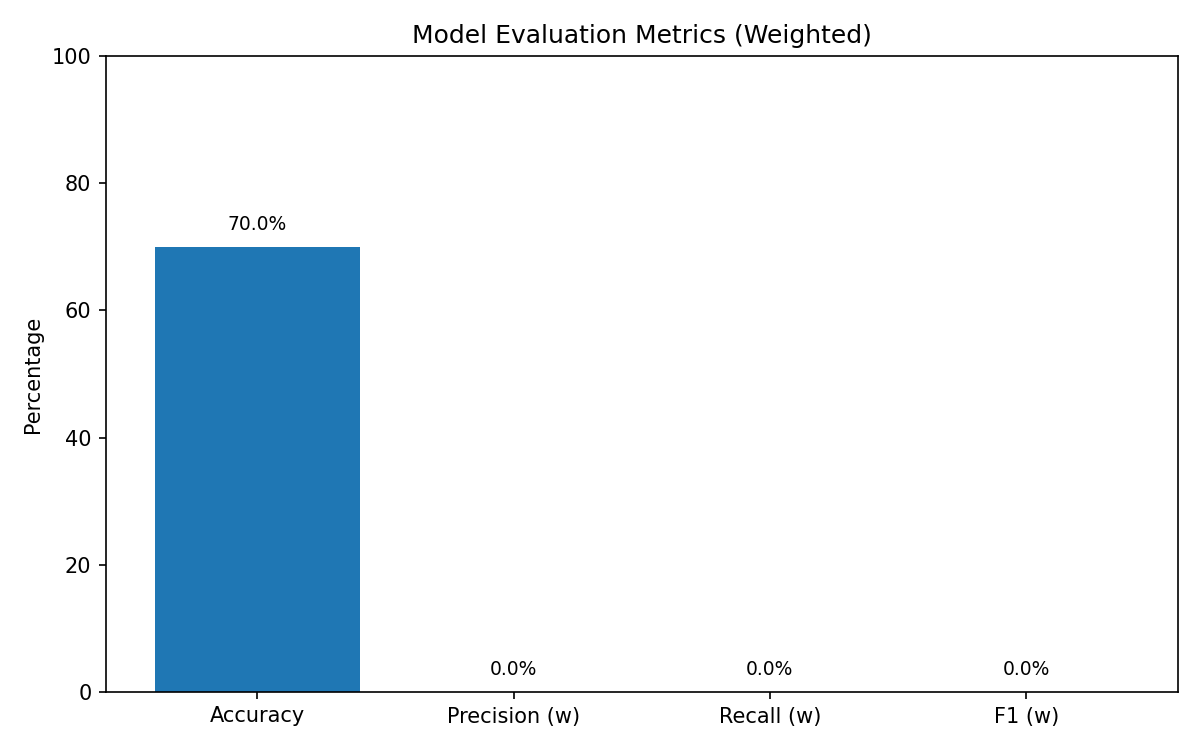
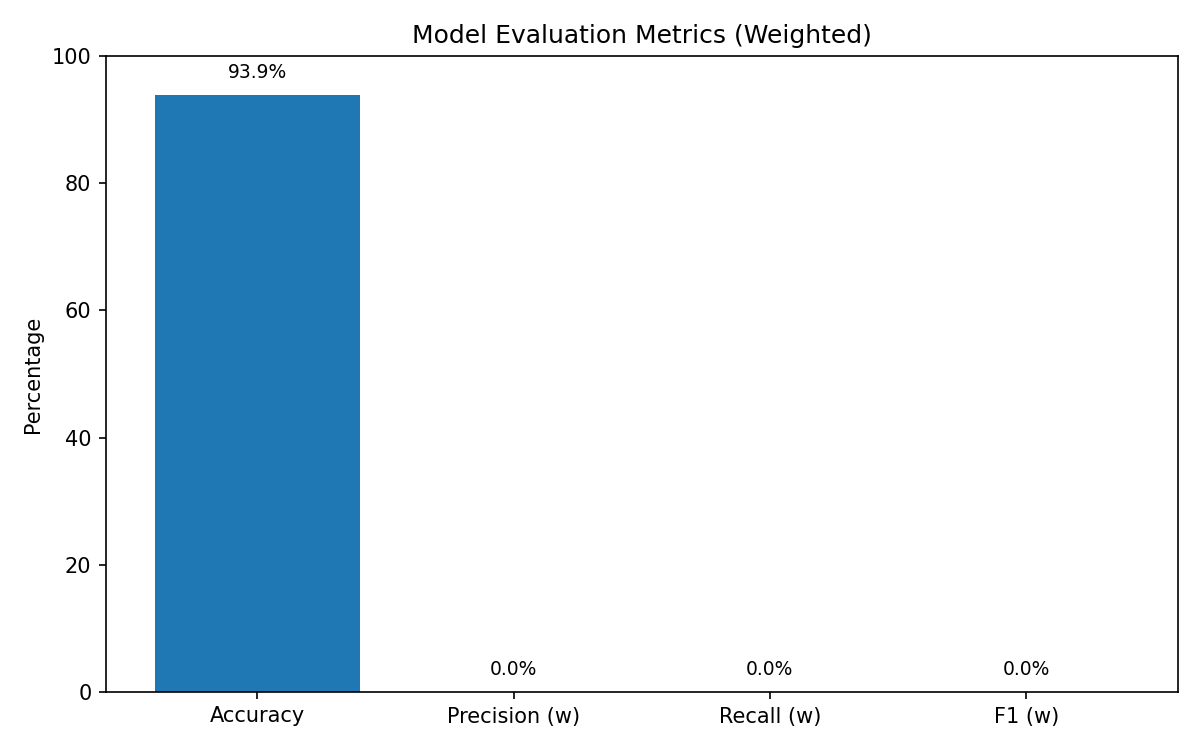
updated K nearest neighbors and voxels

Changed region(s): [[0.1233, 0.092, 0.3083, 0.3373]]

diff --git a/train_model/data_loader.py b/train_model/data_loader.py
@@ -13,7 +13,7 @@ def robust_zscore(x, eps = 1e-6):
     mad = np.median(np.abs(x - med)) + eps
     return (x - med)/(1.4826*mad)
 
-def brain_mask_heuristic(vol, pct=70, min_size_vox=5000):
+def brain_mask_heuristic(vol, pct=20, min_size_vox=1000):
     """fast, per volume mask:
         1) robust normalize
         2)threshold by percentile (acts like 0tsu without dataset globals)
@@ -41,12 +41,12 @@ def brain_mask_heuristic(vol, pct=70, min_size_vox=5000):
     
     return mask
 
-def resize_3d(vol, target_shape=(64,64,64)):
+def resize_3d(vol, target_shape=(170,170,170)):
     """3D resize with linear interpolation"""
     zoom_factors = [t/s for t, s in zip(target_shape, vol.shape)]
-    return ndi.zoom(vol, zoom_factors, order=1)
+    return ndi.zoom(vol, zoom_factors, order=3)
     
-def load_single_nifti(path, target_shape=(64,64,64), time_strategy="mean4d"):
+def load_single_nifti(path, target_shape=(170,170,170), time_strategy="mean4d"):
     """
     load .nii.gz -> 3d brian volume (masked, normalized, resized).
         -time_strategy: "first4d" or "mean4d" for 4D inputs.
@@ -110,7 +110,7 @@ def extract_subject_id(path: str) -> str:
     # Last resort: first token
     return parts[0] if parts else stem
 
-def load_data(healthy_dir, tumor_dir, max_per_class=100, target_shape=(64, 64, 64), time_strategy="first4d"):
+def load_data(healthy_dir, tumor_dir, max_per_class=120, target_shape=(170, 170, 170), time_strategy="first4d"):
     """
     Loads NIfTI files from healthy_dir (label=0) and tumor_dir (label=1),
     resizes to target_shape, flattens, and returns X, y, paths.
@@ -129,10 +129,10 @@ def load_data(healthy_dir, tumor_dir, max_per_class=100, target_shape=(64, 64, 6
 
     def brain_mask_heuristic(vol):
         # simple per-volume intensity threshold; tweak as needed
-        thr = np.percentile(vol, 70)
+        thr = np.percentile(vol, 40)
         return vol > thr
 
-    def load_single_nifti(path, target_shape=(64,64,64), time_strategy="first4d"):
+    def load_single_nifti(path, target_shape=(170,170,170), time_strategy="first4d"):
         vol = nib.load(path).get_fdata()
 
         # Handle 4D volumes

diff --git a/knnapp/management/commands/train_model.py b/knnapp/management/commands/train_model.py
@@ -25,7 +25,6 @@ class Command(BaseCommand):
         self.stdout.write("📦 Loading data...")
         X, y, paths = load_data(healthy_dir, tumor_dir)
 
-        # ---------- Audit labels vs path ----------
         y_check = np.array([label_from_path(p, healthy_dir, tumor_dir) for p in paths])
         mismatch_idx = np.where(y_check != y)[0]
         print("Label mismatches (path vs y):", len(mismatch_idx))
@@ -63,7 +62,7 @@ class Command(BaseCommand):
         if use_collapse:
             try:
                 paths_subj1, y_subj1, groups_subj1, keep_idx = one_file_per_subject(
-                    paths, y, groups, per_class_max_subjects=50, rng_seed=42
+                    paths, y, groups, per_class_max_subjects=120, rng_seed=42
                 )
                 X_subj1 = X[keep_idx]
                 print("Collapse succeeded:",
@@ -123,7 +122,7 @@ class Command(BaseCommand):
             )
         ))
 
-def one_file_per_subject(paths, y, groups, per_class_max_subjects=50, rng_seed=42):
+def one_file_per_subject(paths, y, groups, per_class_max_subjects=150, rng_seed=42):
     """
     Select at most one file per subject and cap #subjects per class.
     Returns (paths_f, y_f, groups_f, keep_indices) aligned to the *original* arrays.
